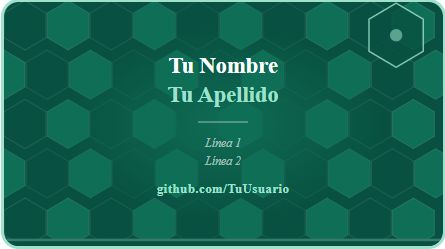
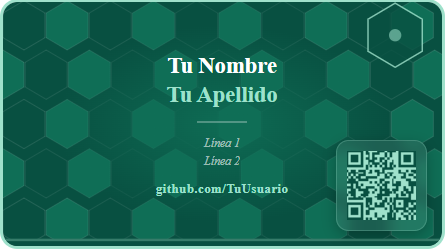
feat: apartado QR

diff --git a/Diseño-Tarjeta.html b/Diseño-Tarjeta.html
@@ -168,6 +168,32 @@
         letter-spacing: 0.05em;
       }
 
+      /* ── QR cara trasera ── */
+      .cb-qr {
+        position: absolute;
+        bottom: 12px;
+        right: 12px;
+        z-index: 4;
+
+        display: flex;
+        flex-direction: column;
+        align-items: center;
+        gap: 6px;
+
+        background: rgba(255, 255, 255, 0.08);
+        backdrop-filter: blur(6px);
+        padding: 8px;
+        border-radius: 10px;
+
+        border: 1px solid rgba(159, 225, 203, 0.25);
+        box-shadow: 0 4px 12px rgba(0, 0, 0, 0.25);
+      }
+      .cb-qr canvas {
+        border-radius: 6px;
+        background: #ffffff;
+        padding: 4px;
+        display: block;
+      }
       .info-strip {
         background: var(--c-mint-light);
         border-radius: 8px;
@@ -272,6 +298,10 @@
             <div class="cb-tagline" id="cb-tagline"></div>
             <div class="cb-github" id="cb-github"></div>
           </div>
+          <!-- QR esquina inferior derecha -->
+          <div class="cb-qr" id="cb-qr">
+            <canvas id="qr-canvas"></canvas>
+          </div>
         </div>
       </div>
 
@@ -287,6 +317,9 @@
 
     <!-- ① Edita SOLO este archivo para cambiar los datos de la tarjeta -->
     <script src="card-data.js"></script>
+
+    <!-- Librería QR (sin dependencias, ~10 KB) -->
+    <script src="https://cdnjs.cloudflare.com/ajax/libs/qrcodejs/1.0.0/qrcode.min.js"></script>
 
     <!-- ② Motor: no necesitas modificar nada aquí abajo -->
     <script>
@@ -322,6 +355,39 @@
           "<br>",
         );
         document.getElementById("cb-github").textContent = d.github;
+
+        // QR funcional
+        if (d.qrUrl) {
+          const container = document.getElementById("cb-qr");
+          container.innerHTML = ""; // limpiar canvas previo si existe
+
+          const qrDiv = document.createElement("div");
+          container.appendChild(qrDiv);
+
+          new QRCode(qrDiv, {
+            text: d.qrUrl,
+            width: 55,
+            height: 55,
+            colorDark: "#085041",
+            colorLight: "#9fe1cb",
+            correctLevel: QRCode.CorrectLevel.M,
+          });
+
+          // Redondear el canvas generado
+          const canvas = qrDiv.querySelector("canvas");
+          if (canvas) canvas.style.borderRadius = "5px";
+
+          // Etiqueta opcional
+          if (d.qrLabel) {
+            const lbl = document.createElement("span");
+            lbl.className = "cb-qr-label";
+            lbl.textContent = d.qrLabel;
+            container.appendChild(lbl);
+          }
+        } else {
+          // Sin URL → ocultar el contenedor
+          document.getElementById("cb-qr").style.display = "none";
+        }
       }
 
       function buildFrontBg(svg) {

diff --git a/card-data.example.js b/card-data.example.js
@@ -24,4 +24,7 @@ const CARD = {
   /* ── Cara trasera ── */
   tagline: "Línea 1\nLínea 2", // \n genera un salto de línea
   github: "github.com/TuUsuario",
+
+  /* ── QR (esquina inferior derecha de la cara trasera) ── */
+  qrUrl: "https://tuportafolio.com", // URL que codifica el QR
 };

diff --git a/README.md b/README.md
@@ -132,6 +132,8 @@ const CARD = {
   /* ── Cara trasera ── */
   tagline: "Línea 1\nLínea 2", // \n genera un salto de línea
   github: "github.com/TuUsuario",
+
+  qrUrl: "https://tuportafolio.com", // URL que codifica el QR
 };
 ```
 
